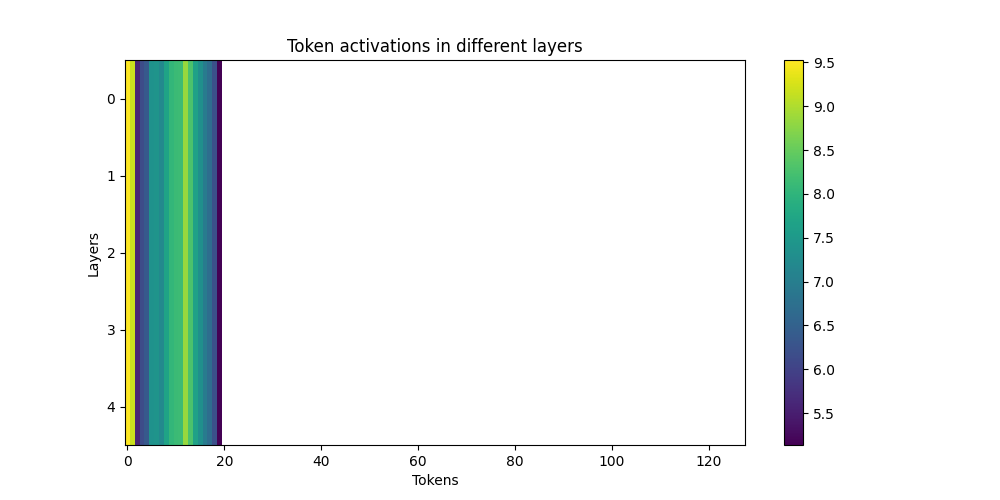
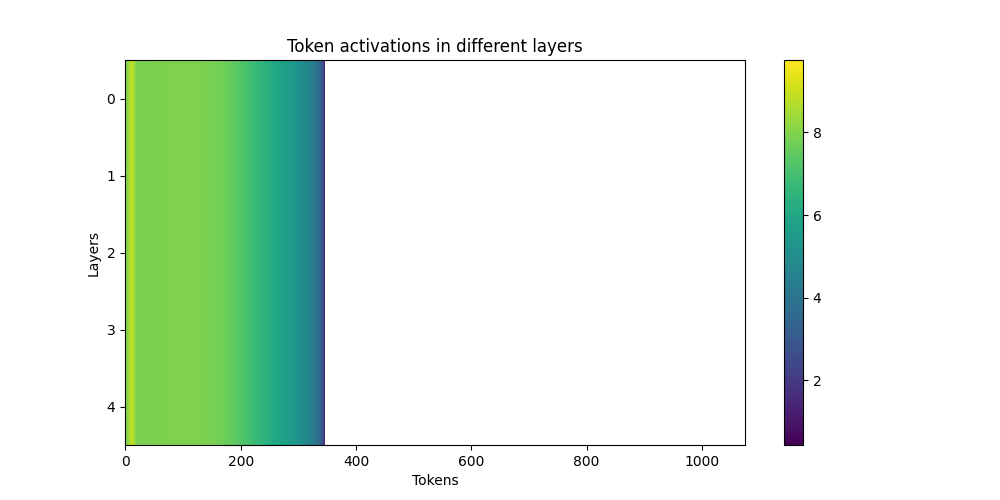
activation norm w/ batches

diff --git a/main.py b/main.py
@@ -101,7 +101,8 @@ class normed:
         self.actemb = actemb
 
         # Additional norm calculations for nested structures
-        assert np.array(self.actemb["layer 0"]).shape[1] == 128
+        print(np.array(self.actemb["layer 0"]).shape)
+        # assert np.array(self.actemb["layer 0"]).shape[1] == 128
         self.actemb["layer 0"] = np.linalg.norm(self.actemb["layer 0"], axis=0)
         self.actemb["layer 1"] = np.linalg.norm(self.actemb["layer 1"], axis=0)
         self.actemb["layer 2"] = np.linalg.norm(self.actemb["layer 2"], axis=0)
@@ -111,7 +112,6 @@ class normed:
         
         print(self.actemb["layer 0"].shape)
         
-        assert np.array(self.actemb["layer 0"]).shape == np.array(self.actemb["layer 1"]).shape == np.array(self.actemb["layer 2"]).shape == np.array(self.actemb["layer 3"]).shape == np.array(self.actemb["layer 4"]).shape == (128,)
         
     def norm(self):
         
@@ -266,8 +266,18 @@ if __name__ == "__main__":
         with open("data/activation_embeds_prenorm_val_data.pkl", "wb") as f:
             pickle.dump(activation_embeds, f)
     
-
-    normed_class = normed(activation_embeds, val_data)
+    layer0act = pad_to_equal_shape(activation_embeds["layer 0"])
+    layer1act = pad_to_equal_shape(activation_embeds["layer 1"])
+    layer2act = pad_to_equal_shape(activation_embeds["layer 2"])
+    layer3act = pad_to_equal_shape(activation_embeds["layer 3"])
+    layer4act = pad_to_equal_shape(activation_embeds["layer 4"])
+    
+    pprint(activation_embeds["layer 0"][0])
+    pprint(activation_embeds["layer 1"][0])
+    pprint(activation_embeds["layer 2"][0])
+    pprint(activation_embeds["layer 3"][0])
+    pprint(activation_embeds["layer 4"][0])
+    normed_class = normed({"layer 0": layer0act, "layer 1": layer1act, "layer 2": layer2act, "layer 3": layer3act, "layer 4": layer4act})
     normed_class.normwmean()
     normed_class.norm()
     

diff --git a/dataset.py b/dataset.py
@@ -86,3 +86,24 @@ def process_data(model, train_data, val_data, batch_size):
     # return train_dataloader, validation_dataloader
     return validation_dataloader
 
+def pad_to_equal_shape(tensors):
+    # Find the maximum shape along the second dimension
+    max_shape = max(tensor.size(1) for tensor in tensors)
+    
+    # Create a list to hold the padded tensors
+    padded_tensors = []
+    
+    for tensor in tensors:
+        # Calculate the padding size needed
+        padding_size = max_shape - tensor.size(1)
+        
+        # Pad the tensor with zeros on the right side
+        padded_tensor = torch.nn.functional.pad(tensor, (0, padding_size), mode='constant', value=0)
+        
+        # Reshape the tensor to remove the leading dimension
+        padded_tensor = padded_tensor.view(-1)
+        
+        # Add the padded tensor to the list
+        padded_tensors.append(padded_tensor)
+    
+    return padded_tensors
